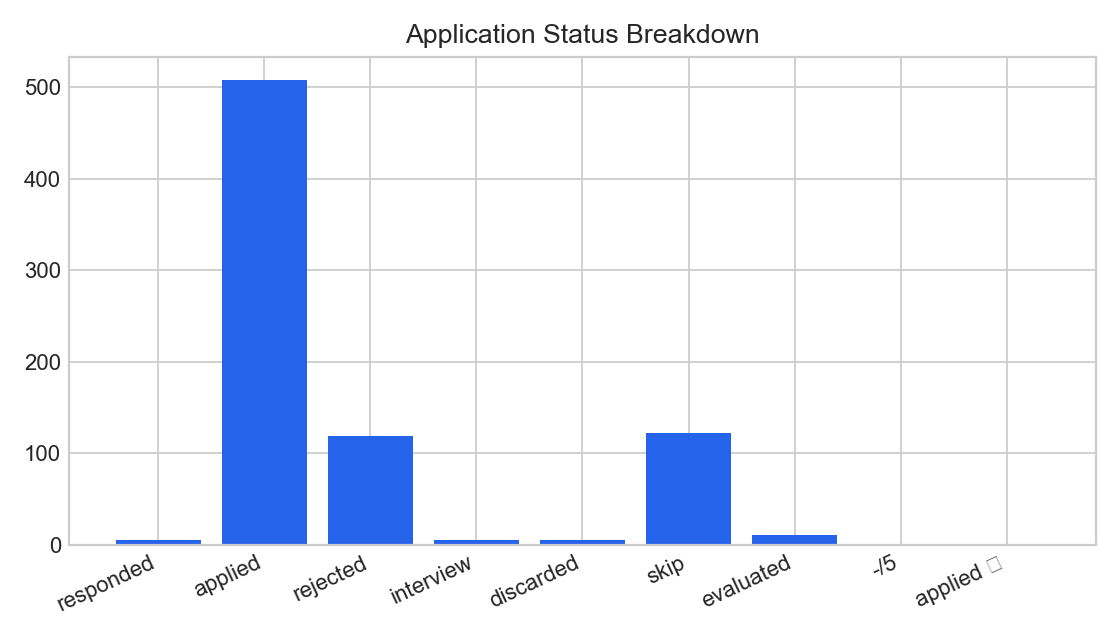
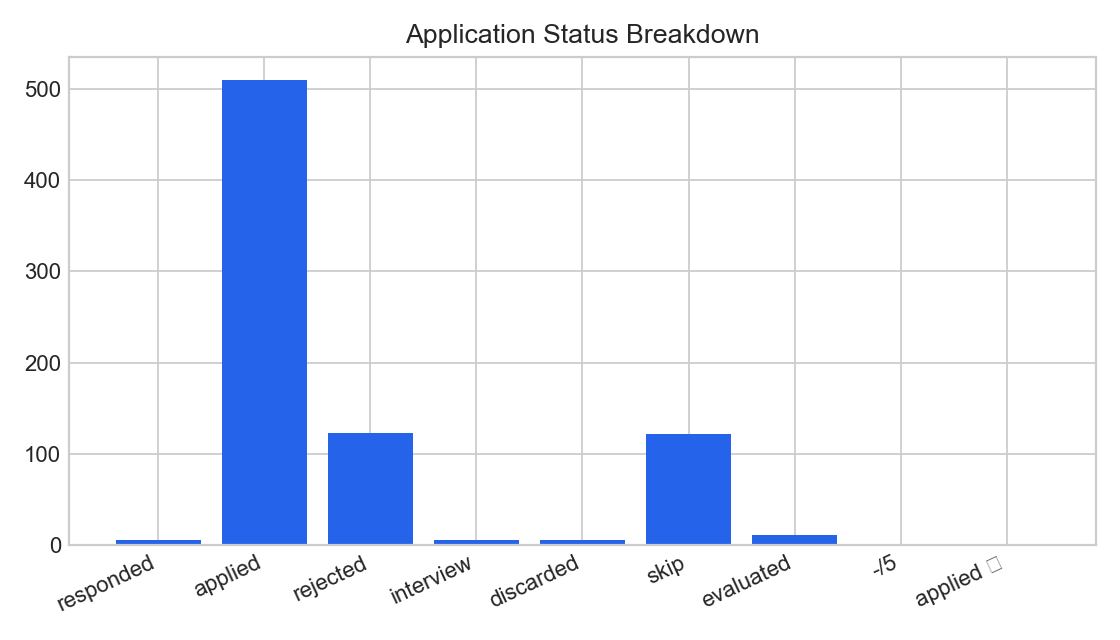
Refresh analytics: 936 merged roles (Intel China x4, Carrot BI Analyst added; Gartner/Walmart DA II/Pape-Dawson status synced to Rejected)

diff --git a/data/daily_summary.md b/data/daily_summary.md
@@ -1,6 +1,6 @@
 # Daily Job Search Summary
 
-_Last refreshed: 2026-08-24T04:24:37-07:00_
+_Last refreshed: 2026-08-25T03:08:09-07:00_
 
 ## Positioning
 
@@ -10,38 +10,38 @@ _Last refreshed: 2026-08-24T04:24:37-07:00_
 
 ## Snapshot
 
-- Tracked roles: 930
-- Active roles: 530
+- Tracked roles: 936
+- Active roles: 532
 - Response rate: 1.7%
 - LinkedIn outreach sent: 28
 - Pending pipeline items: 155
 - Recommended pipeline items: 36
-- Average evaluated score: 7.37
+- Average evaluated score: 7.34
 
 ## Status Breakdown
 
 - -/5: 1
-- applied: 508
+- applied: 510
 - applied ✅: 1
 - discarded: 6
 - evaluated: 11
 - interview: 5
-- rejected: 119
+- rejected: 123
 - responded: 6
 - skip: 122
 
 ## Recent Activity
 
+- 2026-08-25: Carrot Fertility | Business Intelligence Analyst | applied
+- 2026-08-25: Intel | AI Software Development Engineer (JR0286123) | applied
+- 2026-08-25: Intel | Data center SW Engineering / Cloud Application Development Engineer (JR0286403) | applied
+- 2026-08-25: Intel | AI Framework Engineer - QA & Benchmarking (JR0286411) | applied
+- 2026-08-25: Intel | Software Development Engineer (JR0285592) | applied
+- 2026-08-24: Carrot | Business Intelligence Analyst | applied
 - 2026-08-23: Micron | New College Grad - Business Analyst, Digital Workplace | applied
 - 2026-08-23: Analytic Partners | Marketing Science Analyst | rejected
 - 2026-08-23: Amazon | Business Intelligence Engineer, North America Transportation Services | applied
 - 2026-08-23: Micron Technology | New College Grad - Business Analyst, Digital Workplace | applied
-- 2026-08-23: Qualcomm | Business Process Analyst (IP Operations) | applied
-- 2026-08-23: Pape-Dawson Engineers | GIS Analyst I | applied
-- 2026-08-23: CVS Health | Data Science Analyst (Caremark/Data and Analytics) | applied
-- 2026-08-22: Morgan Stanley | Junior Data Analyst | applied
-- 2026-08-22: CVS Health | Data Science Analyst | applied
-- 2026-08-22: Robinhood | Business Analyst (New Grad) | applied
 
 ## Recommended Opportunity Queue
 
@@ -63,13 +63,13 @@ _Last refreshed: 2026-08-24T04:24:37-07:00_
 
 ## Needs Attention
 
-- Microsoft | Applied Scientist: Microsoft AI Development Acceleration Program | 165 days with no response
-- Nvidia | Deep Learning Architect, LLM Inference - New College Grad 2026 | 165 days with no response
-- Google | Software Engineer II, Early Career | 161 days with no response
-- Apple | AIML - Machine Learning Research | 154 days with no response
-- Amazon | Data Engineer II | 152 days with no response
-- Amazon | Software Development Engineer – Amazon Leo (US) | 152 days with no response
-- Amazon | Software Development Engineer - 2026 (US) | 152 days with no response
-- Amazon | 软件开发工程师, (New graduate or Entry-level Engineer, 0-2 Years) | 152 days with no response
-- Esri | Product Test Engineer II - Feature Server | 152 days with no response
-- Esri | Product Engineer II - ArcGIS Enterprise Sharing API | 152 days with no response
+- Microsoft | Applied Scientist: Microsoft AI Development Acceleration Program | 166 days with no response
+- Nvidia | Deep Learning Architect, LLM Inference - New College Grad 2026 | 166 days with no response
+- Google | Software Engineer II, Early Career | 162 days with no response
+- Apple | AIML - Machine Learning Research | 155 days with no response
+- Amazon | Data Engineer II | 153 days with no response
+- Amazon | Software Development Engineer – Amazon Leo (US) | 153 days with no response
+- Amazon | Software Development Engineer - 2026 (US) | 153 days with no response
+- Amazon | 软件开发工程师, (New graduate or Entry-level Engineer, 0-2 Years) | 153 days with no response
+- Esri | Product Test Engineer II - Feature Server | 153 days with no response
+- Esri | Product Engineer II - ArcGIS Enterprise Sharing API | 153 days with no response
